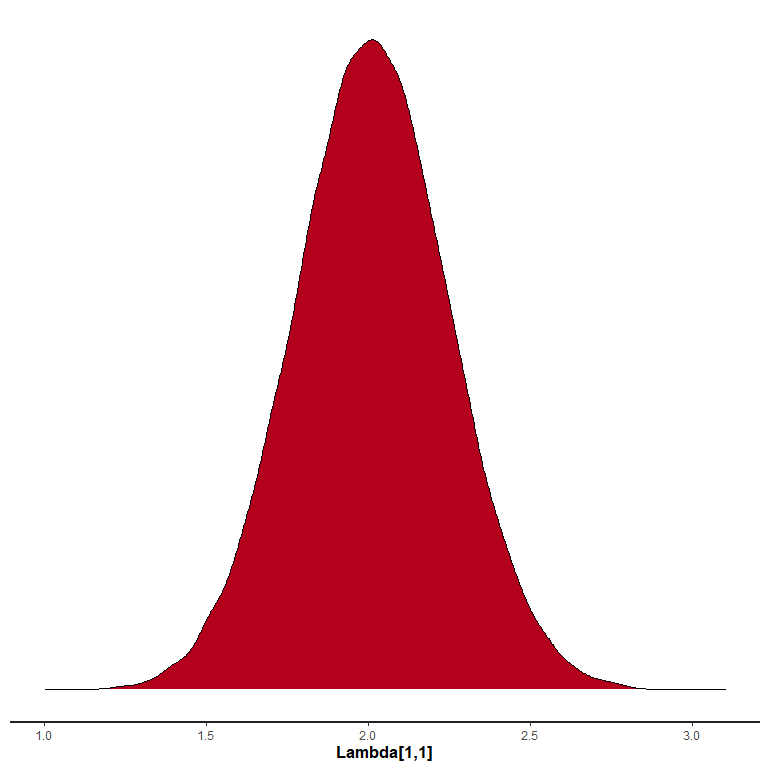
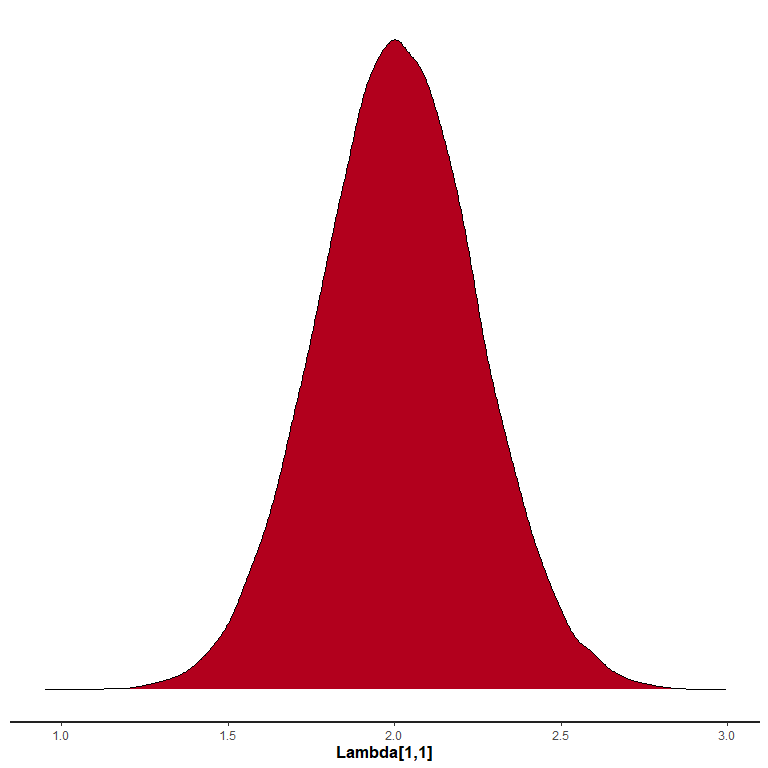
sdaas

diff --git a/README.md b/README.md
@@ -138,7 +138,7 @@ $$
 
 Now we need to specify the prior variances for the steady state
 coefficients. Let us put a strong prior on inflation, since the Swedish
-central bank has a $2$% (annual) CPIF inflation target. For the other
+central bank has a 2% (annual) CPIF inflation target. For the other
 variables, we can just put unit variances. We assume prior independence
 of the steady states. Note that the variances are for the elements in
 $vec (\Lambda)$.
@@ -170,7 +170,7 @@ And now let us estimate the model (this will take some time).
 ``` r
 rstan_options(auto_write = TRUE)
 options(mc.cores=parallel::detectCores())
-#fit <- estimate(stan_data, n_chains=8, iter=10000, warmup=5000, H=H, X_pred=X_pred)
+fit <- estimate(stan_data, n_chains=8, iter=10000, warmup=5000, H=H, X_pred=X_pred)
 ```
 
 Note here ‘fit’ is a ‘stanfit’ object, so we can use the plot function
@@ -179,16 +179,20 @@ crisis/second regime) steady state of inflation (i.e. the posterior of
 the unconditional mean of post crisis inflation).
 
 ``` r
-#stan_dens(fit, pars = "Lambda[1,1]")
+stan_dens(fit, pars = "Lambda[1,1]")
 ```
 
-Now lets plot the forecasts along with a $95$% prediction interval. Here
-I choose the mean of the posterior distribution as the actual
+<img src="man/figures/README-unnamed-chunk-12-1.png" width="100%" />
+
+Now lets plot the forecasts along with a 95% prediction interval. Here I
+choose the mean of the posterior distribution as the actual
 forecast/point prediction, but the median is also possible.
 
 ``` r
-#plot_forecast(fit, Y, ci=0.95, fcst_type="mean")
+plot_forecast(fit, Y, ci=0.95, fcst_type="mean")
 ```
+
+<img src="man/figures/README-forecast_plot-1.png" width="100%" />
 
 The Steady-State BVAR model most often contains an inflation variable in
 the system, precisely for the reason that we usually have very
@@ -205,8 +209,8 @@ longer run with the Federal Reserve’s statutory maximum employment and
 price stability mandates.*
 
 As such, the inflation target of the Federal Reserve is a steady state
-annual inflation of $2$%. Similarly, as mentioned, the Swedish Riksbank
-has an inflation target of $2$% annual CPIF inflation.
+annual inflation of 2%. Similarly, as mentioned, the Swedish Riksbank
+has an inflation target of 2% annual CPIF inflation.
 
 Because of the fact that the actual targets are on an annual basis, but
 often in macroeconometric models the inflation is specified in terms of
@@ -220,8 +224,10 @@ specify which index in Y belongs to the inflation variable.
 
 ``` r
 #the annualized quarterly inflation rate is transformed to annual inflation
-#plot_forecast(fit, Y, ci=0.95, fcst_type="mean", plot_annual_inf=TRUE, inf_idx=1)
+plot_forecast(fit, Y, ci=0.95, fcst_type="mean", plot_annual_inf=TRUE, inf_idx=1)
 ```
+
+<img src="man/figures/README-unnamed-chunk-13-1.png" width="100%" />
 
 Please note that for this to make sense, the inflation variable used in
 the model must be the annualized quarterly growth rate of some price
